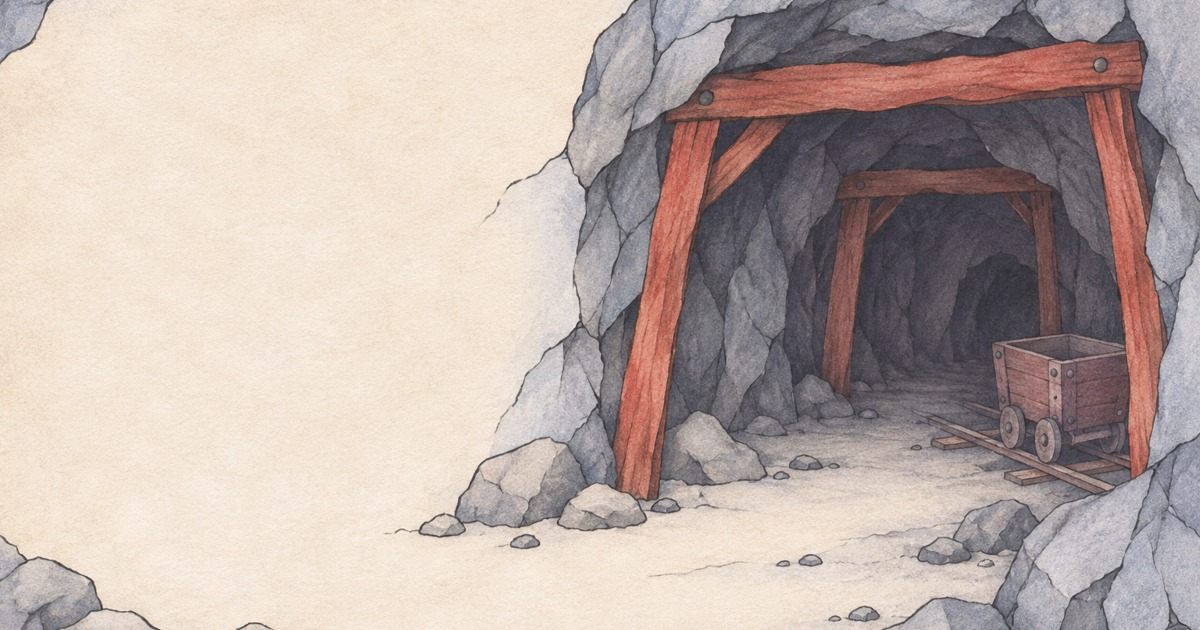
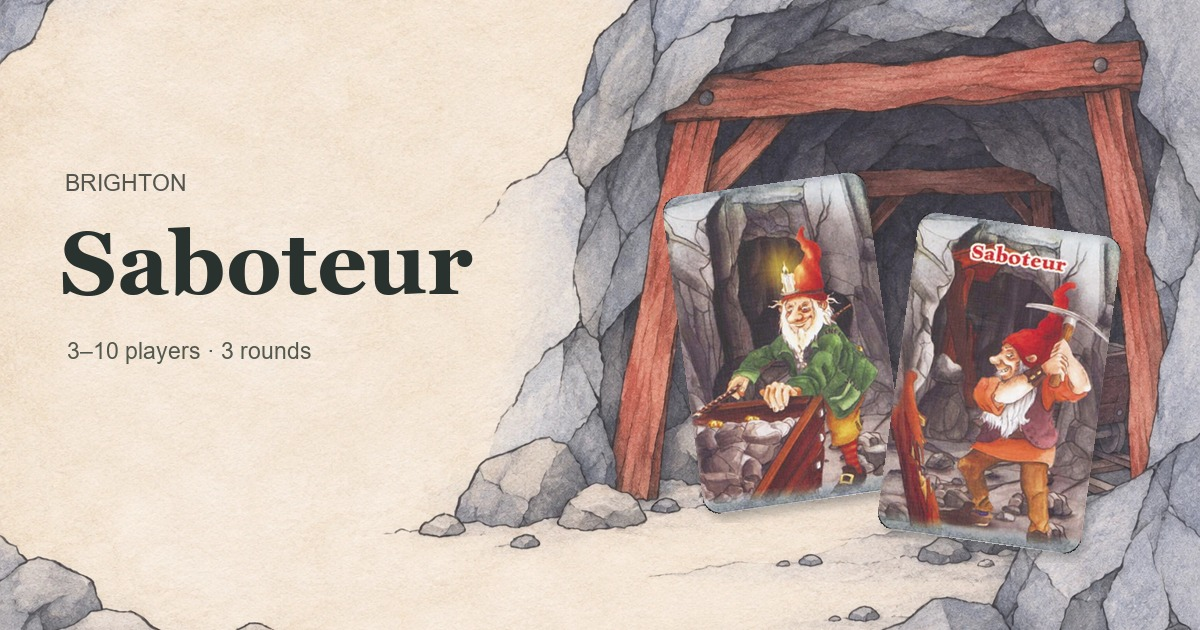
Use supplied dwarf cards in the sharing preview

diff --git a/Saboteur/index.html b/Saboteur/index.html
@@ -19,7 +19,7 @@
   <meta property="og:image:width" content="1200">
   <meta property="og:image:height" content="630">
   <meta property="og:image:type" content="image/jpeg">
-  <meta property="og:image:alt" content="An illustrated miner, secret saboteur and golden tunnels on a parchment game board.">
+  <meta property="og:image:alt" content="The supplied Saboteur dwarf cards beside a hand-painted mine entrance and the title Saboteur.">
   <meta name="twitter:card" content="summary_large_image">
   <meta name="twitter:title" content="Saboteur | Brighton">
   <meta name="twitter:description" content="Play Saboteur with 3–10 players, online or in the classroom. No account needed.">

diff --git a/Saboteur/tools/prepare-share.py b/Saboteur/tools/prepare-share.py
@@ -1,0 +1,24 @@
+"""Lay out the supplied card faces and background as a 1200×630 sharing graphic."""
+from pathlib import Path
+from PIL import Image, ImageDraw, ImageFont, ImageOps, ImageFilter
+
+assets = Path(__file__).resolve().parents[1] / 'assets'
+canvas = ImageOps.fit(Image.open(assets/'mine.webp').convert('RGB'),(1200,630)).convert('RGBA')
+draw = ImageDraw.Draw(canvas)
+font_root = Path('C:/Windows/Fonts')
+title = ImageFont.truetype(str(font_root/'georgiab.ttf'),88)
+label = ImageFont.truetype(str(font_root/'arial.ttf'),23)
+draw.text((65,170),'BRIGHTON',font=label,fill='#54554e')
+draw.text((60,213),'Saboteur',font=title,fill='#29322f')
+draw.text((67,338),'3–10 players · 3 rounds',font=label,fill='#53594f')
+for name,angle,position in [('miner',8,(660,170)),('saboteur',-8,(875,210))]:
+    card=Image.open(assets/'cards'/f'{name}.webp').convert('RGBA').resize((205,320),Image.Resampling.LANCZOS)
+    mask=Image.new('L',card.size,0)
+    ImageDraw.Draw(mask).rounded_rectangle((0,0,204,319),radius=16,fill=255)
+    card.putalpha(mask)
+    card=card.rotate(angle,Image.Resampling.BICUBIC,expand=True)
+    shadow=Image.new('RGBA',card.size,(25,30,26,85));shadow.putalpha(card.getchannel('A').point(lambda x:int(x*.26)))
+    canvas.alpha_composite(shadow.filter(ImageFilter.GaussianBlur(4)),(position[0]+5,position[1]+7))
+    canvas.alpha_composite(card,position)
+canvas.convert('RGB').save(assets/'saboteur-share-v1.jpg',quality=92)
+print('Saved 1200×630 share graphic using the supplied cards.')
